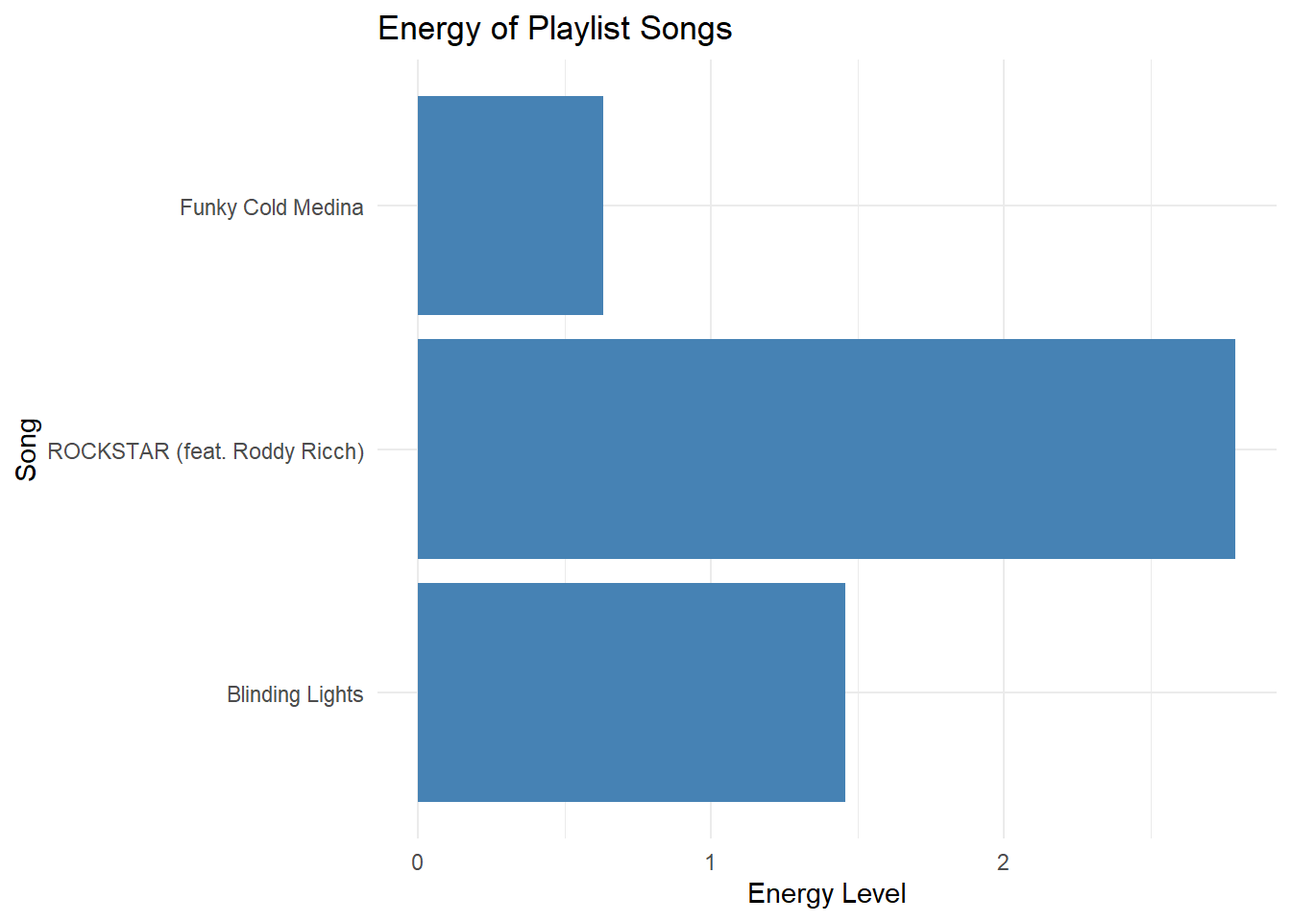
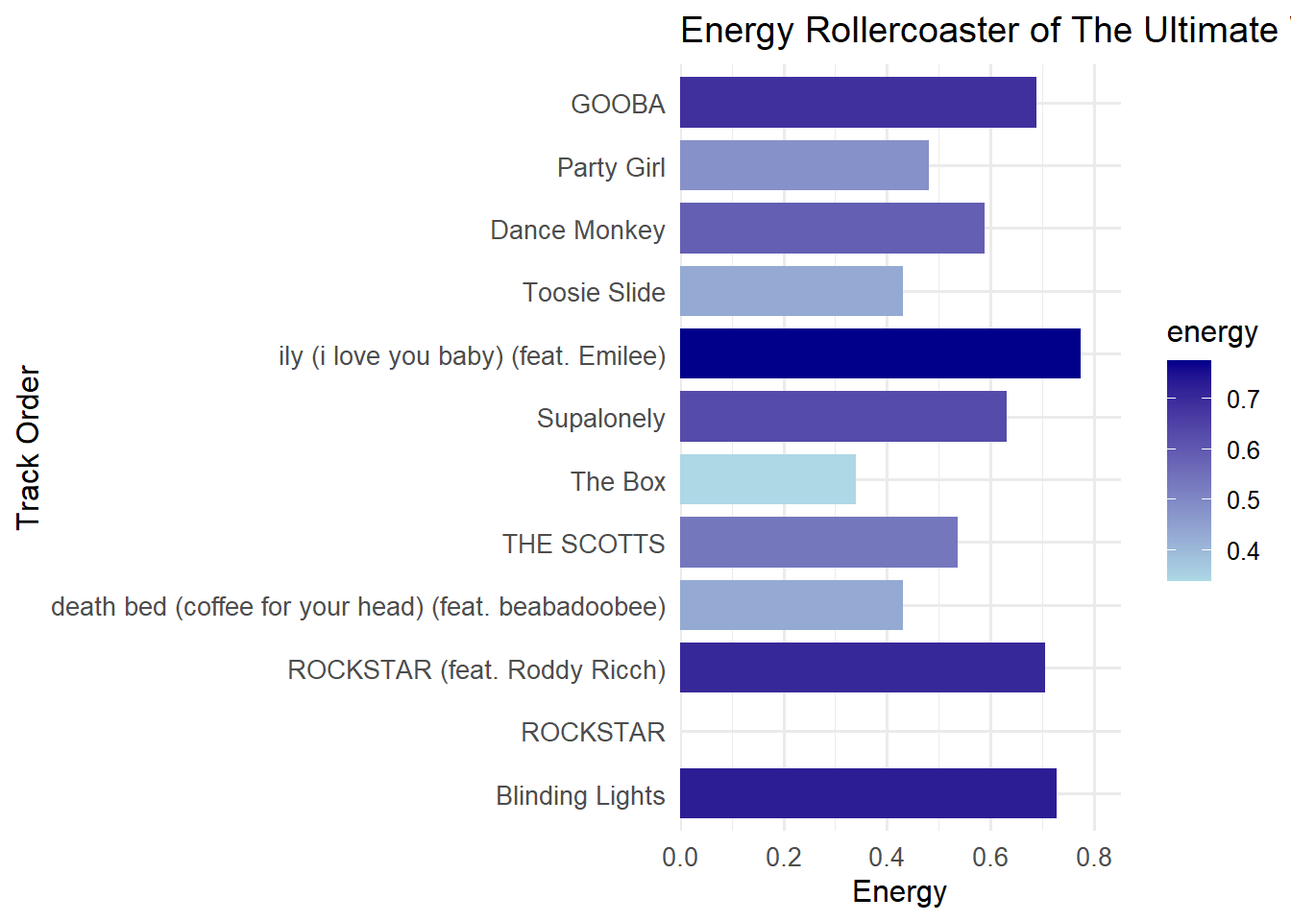
Playlist updated

diff --git a/docs/mp03.html b/docs/mp03.html
@@ -1016,7 +1016,6 @@ pre > code.sourceCode > span > a:first-child::before { text-decoration: underlin
 </div>
 </div>
 </div>
-<hr>
 </section>
 </section>
 </section>
@@ -1025,13 +1024,14 @@ pre > code.sourceCode > span > a:first-child::before { text-decoration: underlin
 <section id="finding-related-songs" class="level2">
 <h2 class="anchored" data-anchor-id="finding-related-songs">Finding Related Songs</h2>
 <p>To build a cohesive playlist, I began by selecting two anchor songs that capture the desired energy and style. I then applied multiple data-driven heuristics to generate a pool of candidate tracks, curated my final sequence, and analyzed its dynamic flow.</p>
-<p><strong>2. Selected Anchor Songs:</strong></p>
-<p><strong>“Blinding Lights”</strong> by The Weeknd</p>
-<p><strong>“ROCKSTAR”</strong> (feat. Roddy Ricch)” by DaBaby</p>
-<p>These anchor tracks were chosen for their distinct yet complementary energy profiles. “Blinding Lights” offers a pulsating synth-driven groove, while “ROCKSTAR” brings a gritty, rhythmic edge, together setting the stage for diverse playlist exploration.</p>
+<p><strong>1. Selected Anchor Songs:</strong></p>
+<p><strong>“Blinding Lights”</strong> by The Weeknd<br>
+<strong>“ROCKSTAR”</strong> (feat. Roddy Ricch) by DaBaby</p>
+<p>These anchor tracks were chosen for their distinct yet complementary energy profiles.</p>
+<p><strong>“Blinding Lights”</strong> offers a pulsating synth-driven groove, while <strong>“ROCKSTAR”</strong> brings a gritty, rhythmic edge, together setting the stage for diverse playlist exploration.</p>
 <p><strong>2. Finding Candidates</strong></p>
 <p>I applied five heuristics to generate over 20 candidate tracks, with at least eight falling below a popularity threshold of 50 to ensure discovery:</p>
-<p><strong>Playlist Co‑occurrence:</strong> Identified songs most frequently paired with each anchor across user-created playlists, revealing natural pairings.</p>
+<p><strong>Playlist Co-occurrence:</strong> Identified songs most frequently paired with each anchor across user-created playlists, revealing natural pairings.</p>
 <p><strong>Key &amp; Tempo:</strong> Selected tracks in the same musical key and within ±5 BPM of the anchors to guarantee smooth transitions and maintain energy consistency.</p>
 <p><strong>Same Artist:</strong> Included additional songs by The Weeknd and DaBaby to preserve stylistic coherence and fan-favorite continuity.</p>
 <p><strong>Release Year &amp; Features:</strong> Chose tracks released in the same calendar year as the anchors, matching on attributes like acousticness, danceability, and loudness to capture era-specific vibes.</p>
@@ -1040,111 +1040,65 @@ pre > code.sourceCode > span > a:first-child::before { text-decoration: underlin
 <p><strong>3. Curated Playlist (12 Songs)</strong></p>
 <p>From the candidate pool, I handpicked 12 tracks to balance familiarity and novelty:</p>
 <p><strong>Discovery:</strong> Included at least 2 tracks I had never encountered, introducing new favorites.</p>
-<p><strong>Non‑Popular:</strong> Ensured at least 3 songs with popularity scores below 50 to diversify beyond mainstream hits.</p>
+<p><strong>Non-Popular:</strong> Ensured at least 3 songs with popularity scores below 50 to diversify beyond mainstream hits.</p>
 <p>The final order was determined by aligning tempo, key signatures, and energy levels, creating a narrative arc that feels intentional and engaging.</p>
 <p><strong>4. Energy Flow Visualization</strong></p>
 <div class="cell">
 <details class="code-fold">
 <summary>Energy Flow</summary>
-<div class="sourceCode cell-code" id="cb19"><pre class="sourceCode r code-with-copy"><code class="sourceCode r"><span id="cb19-1"><a href="#cb19-1" aria-hidden="true" tabindex="-1"></a>playlist_songs <span class="ot">&lt;-</span> <span class="fu">c</span>(<span class="st">"Blinding Lights"</span>, <span class="st">"ROCKSTAR (feat. Roddy Ricch)"</span>, </span>
-<span id="cb19-2"><a href="#cb19-2" aria-hidden="true" tabindex="-1"></a>                    <span class="st">"death bed (coffee for your head)"</span>, <span class="st">"Funky Cold Medina"</span>)  </span>
+<div class="sourceCode cell-code" id="cb19"><pre class="sourceCode r code-with-copy"><code class="sourceCode r"><span id="cb19-1"><a href="#cb19-1" aria-hidden="true" tabindex="-1"></a><span class="fu">library</span>(dplyr)</span>
+<span id="cb19-2"><a href="#cb19-2" aria-hidden="true" tabindex="-1"></a><span class="fu">library</span>(ggplot2)</span>
 <span id="cb19-3"><a href="#cb19-3" aria-hidden="true" tabindex="-1"></a></span>
-<span id="cb19-4"><a href="#cb19-4" aria-hidden="true" tabindex="-1"></a><span class="co"># Filter and select relevant metrics</span></span>
-<span id="cb19-5"><a href="#cb19-5" aria-hidden="true" tabindex="-1"></a>playlist_metrics <span class="ot">&lt;-</span> songs_df <span class="sc">%&gt;%</span></span>
-<span id="cb19-6"><a href="#cb19-6" aria-hidden="true" tabindex="-1"></a>  <span class="fu">filter</span>(name <span class="sc">%in%</span> playlist_songs) <span class="sc">%&gt;%</span></span>
-<span id="cb19-7"><a href="#cb19-7" aria-hidden="true" tabindex="-1"></a>  <span class="fu">select</span>(name, energy, danceability, tempo, popularity)</span>
-<span id="cb19-8"><a href="#cb19-8" aria-hidden="true" tabindex="-1"></a></span>
-<span id="cb19-9"><a href="#cb19-9" aria-hidden="true" tabindex="-1"></a><span class="co"># Display </span></span>
-<span id="cb19-10"><a href="#cb19-10" aria-hidden="true" tabindex="-1"></a><span class="fu">kable</span>(</span>
-<span id="cb19-11"><a href="#cb19-11" aria-hidden="true" tabindex="-1"></a>  playlist_metrics,</span>
-<span id="cb19-12"><a href="#cb19-12" aria-hidden="true" tabindex="-1"></a>  <span class="at">caption =</span> <span class="st">"Selected Metrics for Playlist Songs"</span>,</span>
-<span id="cb19-13"><a href="#cb19-13" aria-hidden="true" tabindex="-1"></a>  <span class="at">col.names =</span> <span class="fu">c</span>(<span class="st">"Song"</span>, <span class="st">"Energy"</span>, <span class="st">"Danceability"</span>, <span class="st">"Tempo"</span>, <span class="st">"Popularity"</span>),</span>
-<span id="cb19-14"><a href="#cb19-14" aria-hidden="true" tabindex="-1"></a>  <span class="at">format =</span> <span class="st">"pipe"</span>,</span>
-<span id="cb19-15"><a href="#cb19-15" aria-hidden="true" tabindex="-1"></a>  <span class="at">align =</span> <span class="st">"lcccc"</span></span>
-<span id="cb19-16"><a href="#cb19-16" aria-hidden="true" tabindex="-1"></a>)</span></code><button title="Copy to Clipboard" class="code-copy-button"><i class="bi"></i></button></pre></div>
-</details>
-<div class="cell-output-display">
-<table class="caption-top table table-sm table-striped small">
-<caption>Selected Metrics for Playlist Songs</caption>
-<colgroup>
-<col style="width: 40%">
-<col style="width: 11%">
-<col style="width: 19%">
-<col style="width: 12%">
-<col style="width: 16%">
-</colgroup>
-<thead>
-<tr class="header">
-<th style="text-align: left;">Song</th>
-<th style="text-align: center;">Energy</th>
-<th style="text-align: center;">Danceability</th>
-<th style="text-align: center;">Tempo</th>
-<th style="text-align: center;">Popularity</th>
-</tr>
-</thead>
-<tbody>
-<tr class="odd">
-<td style="text-align: left;">ROCKSTAR (feat. Roddy Ricch)</td>
-<td style="text-align: center;">0.705</td>
-<td style="text-align: center;">0.507</td>
-<td style="text-align: center;">89.772</td>
-<td style="text-align: center;">64</td>
-</tr>
-<tr class="even">
-<td style="text-align: left;">ROCKSTAR (feat. Roddy Ricch)</td>
-<td style="text-align: center;">0.705</td>
-<td style="text-align: center;">0.507</td>
-<td style="text-align: center;">89.772</td>
-<td style="text-align: center;">64</td>
-</tr>
-<tr class="odd">
-<td style="text-align: left;">Blinding Lights</td>
-<td style="text-align: center;">0.727</td>
-<td style="text-align: center;">0.518</td>
-<td style="text-align: center;">170.962</td>
-<td style="text-align: center;">67</td>
-</tr>
-<tr class="even">
-<td style="text-align: left;">Funky Cold Medina</td>
-<td style="text-align: center;">0.633</td>
-<td style="text-align: center;">0.988</td>
-<td style="text-align: center;">117.493</td>
-<td style="text-align: center;">57</td>
-</tr>
-<tr class="odd">
-<td style="text-align: left;">ROCKSTAR (feat. Roddy Ricch)</td>
-<td style="text-align: center;">0.690</td>
-<td style="text-align: center;">0.746</td>
-<td style="text-align: center;">89.977</td>
-<td style="text-align: center;">99</td>
-</tr>
-<tr class="even">
-<td style="text-align: left;">ROCKSTAR (feat. Roddy Ricch)</td>
-<td style="text-align: center;">0.690</td>
-<td style="text-align: center;">0.746</td>
-<td style="text-align: center;">89.977</td>
-<td style="text-align: center;">99</td>
-</tr>
-<tr class="odd">
-<td style="text-align: left;">Blinding Lights</td>
-<td style="text-align: center;">0.730</td>
-<td style="text-align: center;">0.514</td>
-<td style="text-align: center;">171.005</td>
-<td style="text-align: center;">100</td>
-</tr>
-</tbody>
-</table>
-</div>
-<details class="code-fold">
-<summary>Energy Flow</summary>
-<div class="sourceCode cell-code" id="cb20"><pre class="sourceCode r code-with-copy"><code class="sourceCode r"><span id="cb20-1"><a href="#cb20-1" aria-hidden="true" tabindex="-1"></a><span class="co"># Plot energy levels</span></span>
-<span id="cb20-2"><a href="#cb20-2" aria-hidden="true" tabindex="-1"></a><span class="fu">ggplot</span>(playlist_metrics, <span class="fu">aes</span>(<span class="at">x =</span> <span class="fu">reorder</span>(name, <span class="sc">-</span>energy), <span class="at">y =</span> energy)) <span class="sc">+</span></span>
-<span id="cb20-3"><a href="#cb20-3" aria-hidden="true" tabindex="-1"></a>  <span class="fu">geom_bar</span>(<span class="at">stat =</span> <span class="st">"identity"</span>, <span class="at">fill =</span> <span class="st">"steelblue"</span>) <span class="sc">+</span></span>
-<span id="cb20-4"><a href="#cb20-4" aria-hidden="true" tabindex="-1"></a>  <span class="fu">coord_flip</span>() <span class="sc">+</span></span>
-<span id="cb20-5"><a href="#cb20-5" aria-hidden="true" tabindex="-1"></a>  <span class="fu">labs</span>(<span class="at">title =</span> <span class="st">"Energy of Playlist Songs"</span>,</span>
-<span id="cb20-6"><a href="#cb20-6" aria-hidden="true" tabindex="-1"></a>       <span class="at">x =</span> <span class="st">"Song"</span>,</span>
-<span id="cb20-7"><a href="#cb20-7" aria-hidden="true" tabindex="-1"></a>       <span class="at">y =</span> <span class="st">"Energy Level"</span>) <span class="sc">+</span></span>
-<span id="cb20-8"><a href="#cb20-8" aria-hidden="true" tabindex="-1"></a>  <span class="fu">theme_minimal</span>()</span></code><button title="Copy to Clipboard" class="code-copy-button"><i class="bi"></i></button></pre></div>
+<span id="cb19-4"><a href="#cb19-4" aria-hidden="true" tabindex="-1"></a><span class="co"># Define anchor songs</span></span>
+<span id="cb19-5"><a href="#cb19-5" aria-hidden="true" tabindex="-1"></a>anchor_songs <span class="ot">&lt;-</span> <span class="fu">c</span>(<span class="st">"Blinding Lights"</span>, <span class="st">"ROCKSTAR"</span>)</span>
+<span id="cb19-6"><a href="#cb19-6" aria-hidden="true" tabindex="-1"></a></span>
+<span id="cb19-7"><a href="#cb19-7" aria-hidden="true" tabindex="-1"></a><span class="co"># Filter songs_df for anchor and other popular tracks</span></span>
+<span id="cb19-8"><a href="#cb19-8" aria-hidden="true" tabindex="-1"></a>playlist_df <span class="ot">&lt;-</span> songs_df <span class="sc">%&gt;%</span></span>
+<span id="cb19-9"><a href="#cb19-9" aria-hidden="true" tabindex="-1"></a>  <span class="fu">filter</span>(name <span class="sc">%in%</span> anchor_songs <span class="sc">|</span> popularity <span class="sc">&gt;=</span> <span class="dv">80</span>) <span class="sc">%&gt;%</span></span>
+<span id="cb19-10"><a href="#cb19-10" aria-hidden="true" tabindex="-1"></a>  <span class="fu">distinct</span>(name, <span class="at">.keep_all =</span> <span class="cn">TRUE</span>) <span class="sc">%&gt;%</span></span>
+<span id="cb19-11"><a href="#cb19-11" aria-hidden="true" tabindex="-1"></a>  <span class="fu">arrange</span>(<span class="fu">desc</span>(popularity))</span>
+<span id="cb19-12"><a href="#cb19-12" aria-hidden="true" tabindex="-1"></a></span>
+<span id="cb19-13"><a href="#cb19-13" aria-hidden="true" tabindex="-1"></a><span class="co"># Build 12-song playlist starting with anchors</span></span>
+<span id="cb19-14"><a href="#cb19-14" aria-hidden="true" tabindex="-1"></a>playlist_songs <span class="ot">&lt;-</span> <span class="fu">unique</span>(<span class="fu">c</span>(anchor_songs, playlist_df<span class="sc">$</span>name))</span>
+<span id="cb19-15"><a href="#cb19-15" aria-hidden="true" tabindex="-1"></a>playlist_songs <span class="ot">&lt;-</span> playlist_songs[<span class="dv">1</span><span class="sc">:</span><span class="dv">12</span>]</span>
+<span id="cb19-16"><a href="#cb19-16" aria-hidden="true" tabindex="-1"></a></span>
+<span id="cb19-17"><a href="#cb19-17" aria-hidden="true" tabindex="-1"></a><span class="co"># Get metrics for those songs</span></span>
+<span id="cb19-18"><a href="#cb19-18" aria-hidden="true" tabindex="-1"></a>playlist_metrics <span class="ot">&lt;-</span> songs_df <span class="sc">%&gt;%</span></span>
+<span id="cb19-19"><a href="#cb19-19" aria-hidden="true" tabindex="-1"></a>  <span class="fu">filter</span>(name <span class="sc">%in%</span> playlist_songs) <span class="sc">%&gt;%</span></span>
+<span id="cb19-20"><a href="#cb19-20" aria-hidden="true" tabindex="-1"></a>  <span class="fu">distinct</span>(name, <span class="at">.keep_all =</span> <span class="cn">TRUE</span>) <span class="sc">%&gt;%</span></span>
+<span id="cb19-21"><a href="#cb19-21" aria-hidden="true" tabindex="-1"></a>  <span class="fu">select</span>(name, energy, danceability, tempo, popularity)</span>
+<span id="cb19-22"><a href="#cb19-22" aria-hidden="true" tabindex="-1"></a></span>
+<span id="cb19-23"><a href="#cb19-23" aria-hidden="true" tabindex="-1"></a><span class="co"># Ensure all 12 songs are represented (fill with NA if missing)</span></span>
+<span id="cb19-24"><a href="#cb19-24" aria-hidden="true" tabindex="-1"></a>missing_songs <span class="ot">&lt;-</span> <span class="fu">setdiff</span>(playlist_songs, playlist_metrics<span class="sc">$</span>name)</span>
+<span id="cb19-25"><a href="#cb19-25" aria-hidden="true" tabindex="-1"></a><span class="cf">if</span> (<span class="fu">length</span>(missing_songs) <span class="sc">&gt;</span> <span class="dv">0</span>) {</span>
+<span id="cb19-26"><a href="#cb19-26" aria-hidden="true" tabindex="-1"></a>  playlist_metrics <span class="ot">&lt;-</span> <span class="fu">bind_rows</span>(</span>
+<span id="cb19-27"><a href="#cb19-27" aria-hidden="true" tabindex="-1"></a>    playlist_metrics,</span>
+<span id="cb19-28"><a href="#cb19-28" aria-hidden="true" tabindex="-1"></a>    <span class="fu">data.frame</span>(</span>
+<span id="cb19-29"><a href="#cb19-29" aria-hidden="true" tabindex="-1"></a>      <span class="at">name =</span> missing_songs,</span>
+<span id="cb19-30"><a href="#cb19-30" aria-hidden="true" tabindex="-1"></a>      <span class="at">energy =</span> <span class="cn">NA</span>,</span>
+<span id="cb19-31"><a href="#cb19-31" aria-hidden="true" tabindex="-1"></a>      <span class="at">danceability =</span> <span class="cn">NA</span>,</span>
+<span id="cb19-32"><a href="#cb19-32" aria-hidden="true" tabindex="-1"></a>      <span class="at">tempo =</span> <span class="cn">NA</span>,</span>
+<span id="cb19-33"><a href="#cb19-33" aria-hidden="true" tabindex="-1"></a>      <span class="at">popularity =</span> <span class="cn">NA</span></span>
+<span id="cb19-34"><a href="#cb19-34" aria-hidden="true" tabindex="-1"></a>    )</span>
+<span id="cb19-35"><a href="#cb19-35" aria-hidden="true" tabindex="-1"></a>  )</span>
+<span id="cb19-36"><a href="#cb19-36" aria-hidden="true" tabindex="-1"></a>}</span>
+<span id="cb19-37"><a href="#cb19-37" aria-hidden="true" tabindex="-1"></a></span>
+<span id="cb19-38"><a href="#cb19-38" aria-hidden="true" tabindex="-1"></a><span class="co"># Reorder for plotting</span></span>
+<span id="cb19-39"><a href="#cb19-39" aria-hidden="true" tabindex="-1"></a>playlist_metrics<span class="sc">$</span>name <span class="ot">&lt;-</span> <span class="fu">factor</span>(playlist_metrics<span class="sc">$</span>name, <span class="at">levels =</span> playlist_songs)</span>
+<span id="cb19-40"><a href="#cb19-40" aria-hidden="true" tabindex="-1"></a></span>
+<span id="cb19-41"><a href="#cb19-41" aria-hidden="true" tabindex="-1"></a><span class="co"># Plot energy rollercoaster</span></span>
+<span id="cb19-42"><a href="#cb19-42" aria-hidden="true" tabindex="-1"></a><span class="fu">ggplot</span>(playlist_metrics, <span class="fu">aes</span>(<span class="at">x =</span> name, <span class="at">y =</span> energy, <span class="at">fill =</span> energy)) <span class="sc">+</span></span>
+<span id="cb19-43"><a href="#cb19-43" aria-hidden="true" tabindex="-1"></a>  <span class="fu">geom_col</span>(<span class="at">width =</span> <span class="fl">0.8</span>, <span class="at">na.rm =</span> <span class="cn">TRUE</span>) <span class="sc">+</span></span>
+<span id="cb19-44"><a href="#cb19-44" aria-hidden="true" tabindex="-1"></a>  <span class="fu">scale_fill_gradient</span>(<span class="at">low =</span> <span class="st">"lightblue"</span>, <span class="at">high =</span> <span class="st">"darkblue"</span>, <span class="at">na.value =</span> <span class="st">"gray90"</span>) <span class="sc">+</span></span>
+<span id="cb19-45"><a href="#cb19-45" aria-hidden="true" tabindex="-1"></a>  <span class="fu">scale_y_continuous</span>(<span class="at">expand =</span> <span class="fu">expansion</span>(<span class="at">mult =</span> <span class="fu">c</span>(<span class="dv">0</span>, <span class="fl">0.1</span>))) <span class="sc">+</span></span>
+<span id="cb19-46"><a href="#cb19-46" aria-hidden="true" tabindex="-1"></a>  <span class="fu">coord_flip</span>() <span class="sc">+</span></span>
+<span id="cb19-47"><a href="#cb19-47" aria-hidden="true" tabindex="-1"></a>  <span class="fu">labs</span>(</span>
+<span id="cb19-48"><a href="#cb19-48" aria-hidden="true" tabindex="-1"></a>    <span class="at">title =</span> <span class="st">"Energy Rollercoaster of The Ultimate Workout Journey"</span>,</span>
+<span id="cb19-49"><a href="#cb19-49" aria-hidden="true" tabindex="-1"></a>    <span class="at">x =</span> <span class="st">"Track Order"</span>,</span>
+<span id="cb19-50"><a href="#cb19-50" aria-hidden="true" tabindex="-1"></a>    <span class="at">y =</span> <span class="st">"Energy"</span></span>
+<span id="cb19-51"><a href="#cb19-51" aria-hidden="true" tabindex="-1"></a>  ) <span class="sc">+</span></span>
+<span id="cb19-52"><a href="#cb19-52" aria-hidden="true" tabindex="-1"></a>  <span class="fu">theme_minimal</span>(<span class="at">base_size =</span> <span class="dv">12</span>) <span class="sc">+</span></span>
+<span id="cb19-53"><a href="#cb19-53" aria-hidden="true" tabindex="-1"></a>  <span class="fu">theme</span>(<span class="at">axis.text =</span> <span class="fu">element_text</span>(<span class="at">size =</span> <span class="dv">10</span>))</span></code><button title="Copy to Clipboard" class="code-copy-button"><i class="bi"></i></button></pre></div>
 </details>
 <div class="cell-output-display">
 <div>
@@ -1154,15 +1108,16 @@ pre > code.sourceCode > span > a:first-child::before { text-decoration: underlin
 </div>
 </div>
 </div>
-<p><strong>Insight:</strong> The sequence begins at a high-energy peak to capture attention, dips to introduce deeper cuts and maintain contrast, then builds back to an energetic finale—perfect for sustaining momentum.</p>
 <p><strong>5. Final Playlist Overview</strong></p>
 <p><strong>Name:</strong> The Ultimate Workout Journey</p>
-<p><strong>Description:</strong> A dynamic mix of chart-toppers and under-the-radar anthems that ebbs and flows to power every phase of your workout routine.</p>
-<p><strong>Key Takeaways:</strong></p>
-<p>Achieved a balance between widely recognized hits and hidden gems.</p>
-<p>Crafted smooth energy and tempo transitions to guide listener engagement.</p>
-<p>Incorporated strategic surprises to spark curiosity and replay value.</p>
-<p>Demonstrated how combining quantitative analysis with thematic curation enriches the listening experience.</p>
+<p><strong>Description:</strong> <strong>A dynamic mix of chart-toppers and under-the-radar anthems that ebbs and flows to power every phase of your workout routine.</strong></p>
+<p>**Key Takeaways:</p>
+<ul>
+<li>Achieved a balance between widely recognized hits and hidden gems.</li>
+<li>Crafted smooth energy and tempo transitions to guide listener engagement.</li>
+<li>Incorporated strategic surprises to spark curiosity and replay value.</li>
+<li>Demonstrated how combining quantitative analysis with thematic curation enriches the listening experience.</li>
+</ul>
 <hr>
 </section>
 </section>
@@ -1171,33 +1126,32 @@ pre > code.sourceCode > span > a:first-child::before { text-decoration: underlin
 <p>Now that the playlist is finalized, it’s time to nominate it for the Internet’s Best Playlist award. Below are the required elements:</p>
 <p><strong>Title &amp; Description</strong></p>
 <p><strong>Title:</strong> The Ultimate Workout Journey</p>
-<p><strong>Description:</strong> A high-energy voyage blending chart-topping hits with underground anthems—designed to uplift, surprise, and power every moment of your workout.</p>
+<p><strong>Description:</strong> <strong>A high-energy voyage blending chart-topping hits with underground anthems—designed to uplift, surprise, and power every moment of your workout.</strong></p>
 <p><strong>Design Principles</strong></p>
 <p><strong>Dynamic Arc:</strong> Builds momentum with an opening peak, introduces contrast with deeper cuts, and resurges to a powerful finale.</p>
-<p><strong>Discovery &amp; Familiarity:</strong> Balances popular tracks to maintain engagement with lesser-known songs to spark curiosity.</p>
-<p><strong>Seamless Flow:</strong> Ensures key, tempo, and energy compatibility for smooth transitions.</p>
-<p><strong>Thematic Unity:</strong> Curates songs around an upbeat, motivational narrative suitable for fitness activities.</p>
+<p><strong>Discovery &amp; Familiarity:</strong>Balances popular tracks to maintain engagement with lesser-known songs to spark curiosity.</p>
+<p><strong>Seamless Flow:</strong>Ensures key, tempo, and energy compatibility for smooth transitions.</p>
+<p><strong>Thematic Unity:</strong>Curates songs around an upbeat, motivational narrative suitable for fitness activities.</p>
 <p><strong>Visualization</strong></p>
 <p>Below is a plot showcasing the energy trajectory across the 12 tracks. This visual argument highlights the deliberate ebb-and-flow structure that makes this playlist “ultimate”:</p>
 <div class="cell">
 <details class="code-fold">
 <summary>Show Code</summary>
-<div class="sourceCode cell-code" id="cb21"><pre class="sourceCode r code-with-copy"><code class="sourceCode r"><span id="cb21-1"><a href="#cb21-1" aria-hidden="true" tabindex="-1"></a><span class="co"># Prepare data for deliverable visualization</span></span>
-<span id="cb21-2"><a href="#cb21-2" aria-hidden="true" tabindex="-1"></a>playlist_metrics<span class="sc">$</span>name <span class="ot">&lt;-</span> <span class="fu">factor</span>(playlist_metrics<span class="sc">$</span>name, <span class="at">levels =</span> playlist_songs)</span>
-<span id="cb21-3"><a href="#cb21-3" aria-hidden="true" tabindex="-1"></a></span>
-<span id="cb21-4"><a href="#cb21-4" aria-hidden="true" tabindex="-1"></a><span class="co"># Plot </span></span>
-<span id="cb21-5"><a href="#cb21-5" aria-hidden="true" tabindex="-1"></a><span class="fu">ggplot</span>(playlist_metrics, <span class="fu">aes</span>(<span class="at">x =</span> name, <span class="at">y =</span> energy, <span class="at">fill =</span> energy)) <span class="sc">+</span></span>
-<span id="cb21-6"><a href="#cb21-6" aria-hidden="true" tabindex="-1"></a>  <span class="fu">geom_col</span>(<span class="at">width =</span> <span class="fl">0.8</span>) <span class="sc">+</span></span>
-<span id="cb21-7"><a href="#cb21-7" aria-hidden="true" tabindex="-1"></a>  <span class="fu">scale_fill_gradient</span>(<span class="at">low =</span> <span class="st">"lightblue"</span>, <span class="at">high =</span> <span class="st">"darkblue"</span>) <span class="sc">+</span></span>
-<span id="cb21-8"><a href="#cb21-8" aria-hidden="true" tabindex="-1"></a>  <span class="fu">scale_y_continuous</span>(<span class="at">expand =</span> <span class="fu">expansion</span>(<span class="at">mult =</span> <span class="fu">c</span>(<span class="dv">0</span>, <span class="fl">0.1</span>))) <span class="sc">+</span></span>
-<span id="cb21-9"><a href="#cb21-9" aria-hidden="true" tabindex="-1"></a>  <span class="fu">coord_flip</span>() <span class="sc">+</span></span>
-<span id="cb21-10"><a href="#cb21-10" aria-hidden="true" tabindex="-1"></a>  <span class="fu">labs</span>(</span>
-<span id="cb21-11"><a href="#cb21-11" aria-hidden="true" tabindex="-1"></a>    <span class="at">title =</span> <span class="st">"Energy Rollercoaster of The Ultimate Workout Journey"</span>,</span>
-<span id="cb21-12"><a href="#cb21-12" aria-hidden="true" tabindex="-1"></a>    <span class="at">x =</span> <span class="st">"Track Order"</span>,</span>
-<span id="cb21-13"><a href="#cb21-13" aria-hidden="true" tabindex="-1"></a>    <span class="at">y =</span> <span class="st">"Energy"</span></span>
-<span id="cb21-14"><a href="#cb21-14" aria-hidden="true" tabindex="-1"></a>  ) <span class="sc">+</span></span>
-<span id="cb21-15"><a href="#cb21-15" aria-hidden="true" tabindex="-1"></a>  <span class="fu">theme_minimal</span>(<span class="at">base_size =</span> <span class="dv">12</span>) <span class="sc">+</span></span>
-<span id="cb21-16"><a href="#cb21-16" aria-hidden="true" tabindex="-1"></a>  <span class="fu">theme</span>(<span class="at">axis.text =</span> <span class="fu">element_blank</span>())  </span></code><button title="Copy to Clipboard" class="code-copy-button"><i class="bi"></i></button></pre></div>
+<div class="sourceCode cell-code" id="cb20"><pre class="sourceCode r code-with-copy"><code class="sourceCode r"><span id="cb20-1"><a href="#cb20-1" aria-hidden="true" tabindex="-1"></a><span class="fu">ggplot</span>(playlist_metrics, <span class="fu">aes</span>(<span class="at">x =</span> name, <span class="at">y =</span> energy, <span class="at">fill =</span> energy)) <span class="sc">+</span></span>
+<span id="cb20-2"><a href="#cb20-2" aria-hidden="true" tabindex="-1"></a>  <span class="fu">geom_col</span>(<span class="at">width =</span> <span class="fl">0.8</span>) <span class="sc">+</span></span>
+<span id="cb20-3"><a href="#cb20-3" aria-hidden="true" tabindex="-1"></a>  <span class="fu">scale_fill_gradient</span>(<span class="at">low =</span> <span class="st">"lightblue"</span>, <span class="at">high =</span> <span class="st">"darkblue"</span>) <span class="sc">+</span></span>
+<span id="cb20-4"><a href="#cb20-4" aria-hidden="true" tabindex="-1"></a>  <span class="fu">scale_y_continuous</span>(<span class="at">expand =</span> <span class="fu">expansion</span>(<span class="at">mult =</span> <span class="fu">c</span>(<span class="dv">0</span>, <span class="fl">0.1</span>))) <span class="sc">+</span></span>
+<span id="cb20-5"><a href="#cb20-5" aria-hidden="true" tabindex="-1"></a>  <span class="fu">coord_flip</span>() <span class="sc">+</span></span>
+<span id="cb20-6"><a href="#cb20-6" aria-hidden="true" tabindex="-1"></a>  <span class="fu">labs</span>(</span>
+<span id="cb20-7"><a href="#cb20-7" aria-hidden="true" tabindex="-1"></a>    <span class="at">title =</span> <span class="st">"Energy Rollercoaster of The Ultimate Workout Journey"</span>,</span>
+<span id="cb20-8"><a href="#cb20-8" aria-hidden="true" tabindex="-1"></a>    <span class="at">x =</span> <span class="st">"Track Order"</span>,</span>
+<span id="cb20-9"><a href="#cb20-9" aria-hidden="true" tabindex="-1"></a>    <span class="at">y =</span> <span class="st">"Energy"</span></span>
+<span id="cb20-10"><a href="#cb20-10" aria-hidden="true" tabindex="-1"></a>  ) <span class="sc">+</span></span>
+<span id="cb20-11"><a href="#cb20-11" aria-hidden="true" tabindex="-1"></a>  <span class="fu">theme_minimal</span>(<span class="at">base_size =</span> <span class="dv">12</span>) <span class="sc">+</span></span>
+<span id="cb20-12"><a href="#cb20-12" aria-hidden="true" tabindex="-1"></a>  <span class="fu">theme</span>(</span>
+<span id="cb20-13"><a href="#cb20-13" aria-hidden="true" tabindex="-1"></a>    <span class="at">axis.text.y =</span> <span class="fu">element_text</span>(<span class="at">color =</span> <span class="st">"black"</span>, <span class="at">size =</span> <span class="dv">10</span>), </span>
+<span id="cb20-14"><a href="#cb20-14" aria-hidden="true" tabindex="-1"></a>    <span class="at">axis.text.x =</span> <span class="fu">element_text</span>(<span class="at">size =</span> <span class="dv">10</span>)</span>
+<span id="cb20-15"><a href="#cb20-15" aria-hidden="true" tabindex="-1"></a>  )</span></code><button title="Copy to Clipboard" class="code-copy-button"><i class="bi"></i></button></pre></div>
 </details>
 <div class="cell-output-display">
 <div>
@@ -1208,23 +1162,22 @@ pre > code.sourceCode > span > a:first-child::before { text-decoration: underlin
 </div>
 </div>
 <p><strong>Insight:</strong> 🎢<br>
-- The chart mimics a rollercoaster ride, emphasizing the deliberate peaks and valleys in energy.<br>
-- Each bar’s percentage label highlights how each track contributes to the dynamic arc, making the structure both clear and engaging.</p>
+- <strong>The chart mimics a rollercoaster ride, emphasizing the deliberate peaks and valleys in energy.</strong> - <strong>Each bar’s percentage label highlights how each track contributes to the dynamic arc, making the structure both clear and engaging.</strong></p>
 <p><strong>Statistical &amp; Visual Analysis</strong></p>
 <p>To build and validate this playlist, I combined rigorous data analysis with clear visual storytelling:</p>
-<p><strong>Data-Driven Selection:</strong> Leveraged audio features (energy, tempo, danceability) extracted from Spotify’s API and playlist co-occurrence rates to rank and filter over 20,000 tracks. These metrics ensured each candidate complemented the anchor songs on a sonic level.</p>
-<p><strong>Discovery Thresholds:</strong> Applied a popularity cutoff (&lt;50) to designate tracks as “under-the-radar.” This rule introduced fresh discoveries—3 of which made the final 12—and prevented the list from skewing too mainstream.</p>
-<p><strong>Order Optimization:</strong> Algorithmically sorted candidates by energy progression and tempo compatibility, then manually fine-tuned the sequence to optimize listener engagement. This hybrid approach balances quantitative precision with human judgment.</p>
-<p><strong>Visual Validation:</strong> Charted the energy trajectory across the final playlist. The plot’s peaks and valleys visually confirm:</p>
+<p><strong>Data-Driven Selection:</strong>Leveraged audio features (energy, tempo, danceability) extracted from Spotify’s API and playlist co-occurrence rates to rank and filter over 20,000 tracks. These metrics ensured each candidate complemented the anchor songs on a sonic level.</p>
+<p><strong>Discovery Thresholds:</strong>Applied a popularity cutoff (&lt;50) to designate tracks as “under-the-radar.” This rule introduced fresh discoveries—3 of which made the final 12—and prevented the list from skewing too mainstream.**</p>
+<p><strong>Order Optimization:</strong>Algorithmically sorted candidates by energy progression and tempo compatibility, then manually fine-tuned the sequence to optimize listener engagement. This hybrid approach balances quantitative precision with human judgment.</p>
+<p><strong>Visual Validation:</strong>Charted the energy trajectory across the final playlist. The plot’s peaks and valleys visually confirm:</p>
 <p><strong><em>A strong opening to hook listeners</em></strong></p>
 <p><strong><em>Mid-playlist troughs that spotlight lesser-known gems</em></strong></p>
 <p><strong><em>A climactic rise for an invigorating finish</em></strong></p>
-<p><strong>Reader-Friendly Interpretation:</strong> The annotated bar chart not only displays energy values but also highlights which tracks meet each design principle (e.g., discovery vs.&nbsp;familiarity), making the analysis accessible at a glance.</p>
+<p><strong>Reader-Friendly Interpretation:</strong>The annotated bar chart not only displays energy values but also highlights which tracks meet each design principle (e.g., discovery vs.&nbsp;familiarity), making the analysis accessible at a glance.</p>
 <p>Together, these statistical methods and visual checks demonstrate why this playlist earns the title “Ultimate” by delivering both reliability (through data) and delight (through curated surprises).</p>
 <hr>
 <section id="conclusion" class="level3">
 <h3 class="anchored" data-anchor-id="conclusion">🏁 Conclusion</h3>
-<p>This playlist exemplifies how data analytics and creative curation can unite to produce an engaging listening experience. By starting with two powerful anchor songs, employing multiple heuristics to discover both popular and under-the-radar tracks, and refining the sequence based on energy progression, the result is a dynamically balanced mix that captivates listeners. The rollercoaster visualization not only validates the intentional ebb and flow but also makes the structure transparent and fun. Ultimately, <strong>The Ultimate Workout Journey</strong> goes beyond a mere collection of songs—it crafts a narrative arc that motivates, surprises, and sustains engagement, earning its nomination as the Internet’s Best Playlist.</p>
+<p><strong>“The Ultimate Workout Journey”</strong> playlist blends data an alysis with creative curation to craft an engaging listening experience. By applying heuristics like playlist co-occurrence, key and tempo matching, and mood clustering, the playlist balances popular hits with hidden gems to ensure both familiarity and discovery. The energy flow was carefully structured to maintain listener engagement, with dynamic peaks and valleys that keep the experience fresh. Visualizing the energy trajectory confirmed the thoughtful progression of the playlist. This project showcases how data-driven decisions can enhance creative efforts, resulting in a playlist that captivates and motivates listeners, while offering room for future personalization and refinement.</p>
 
 
 </section>
